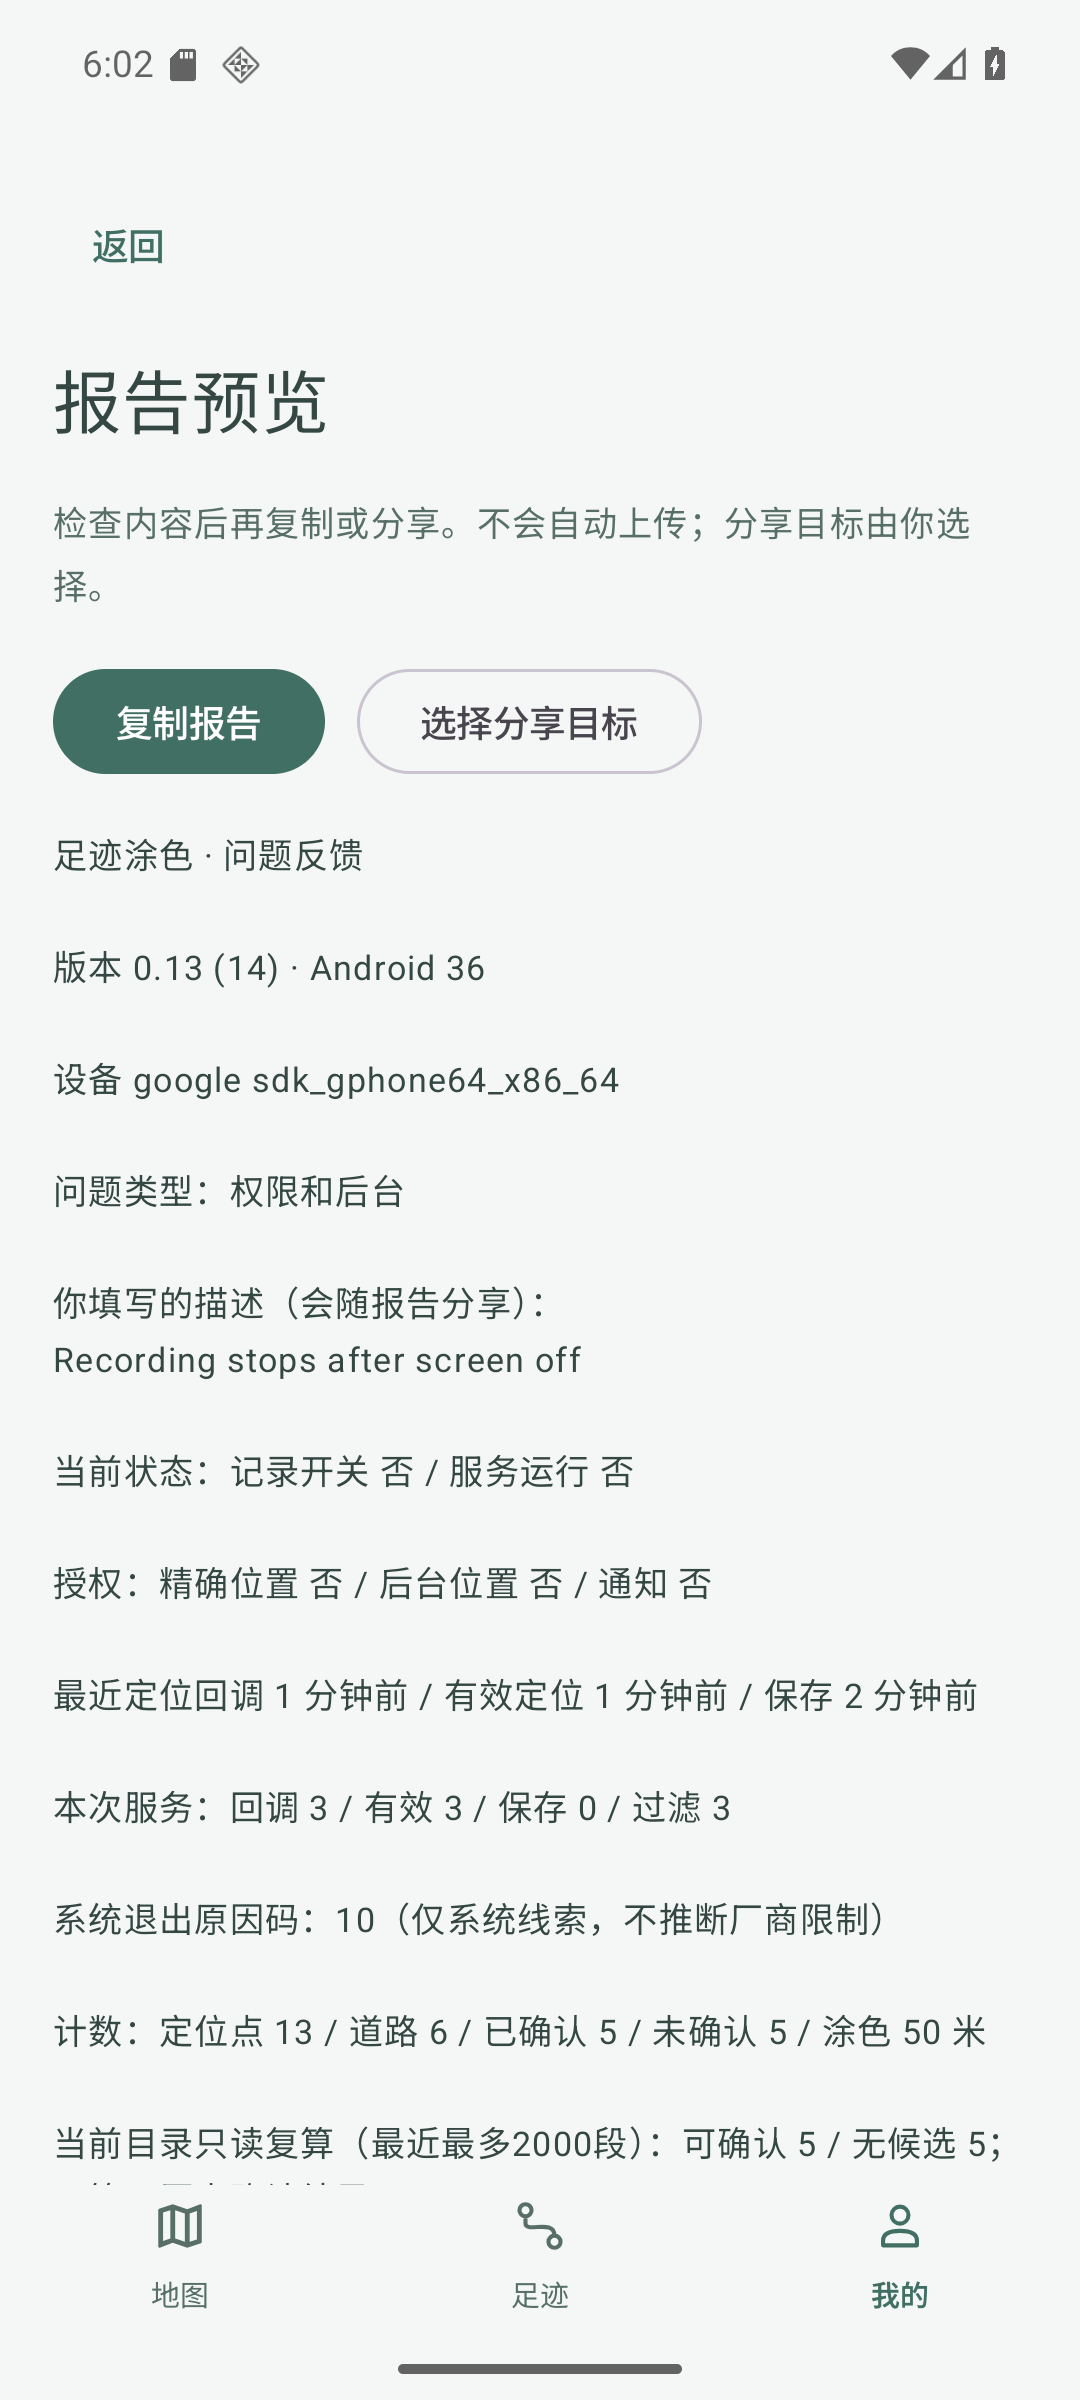
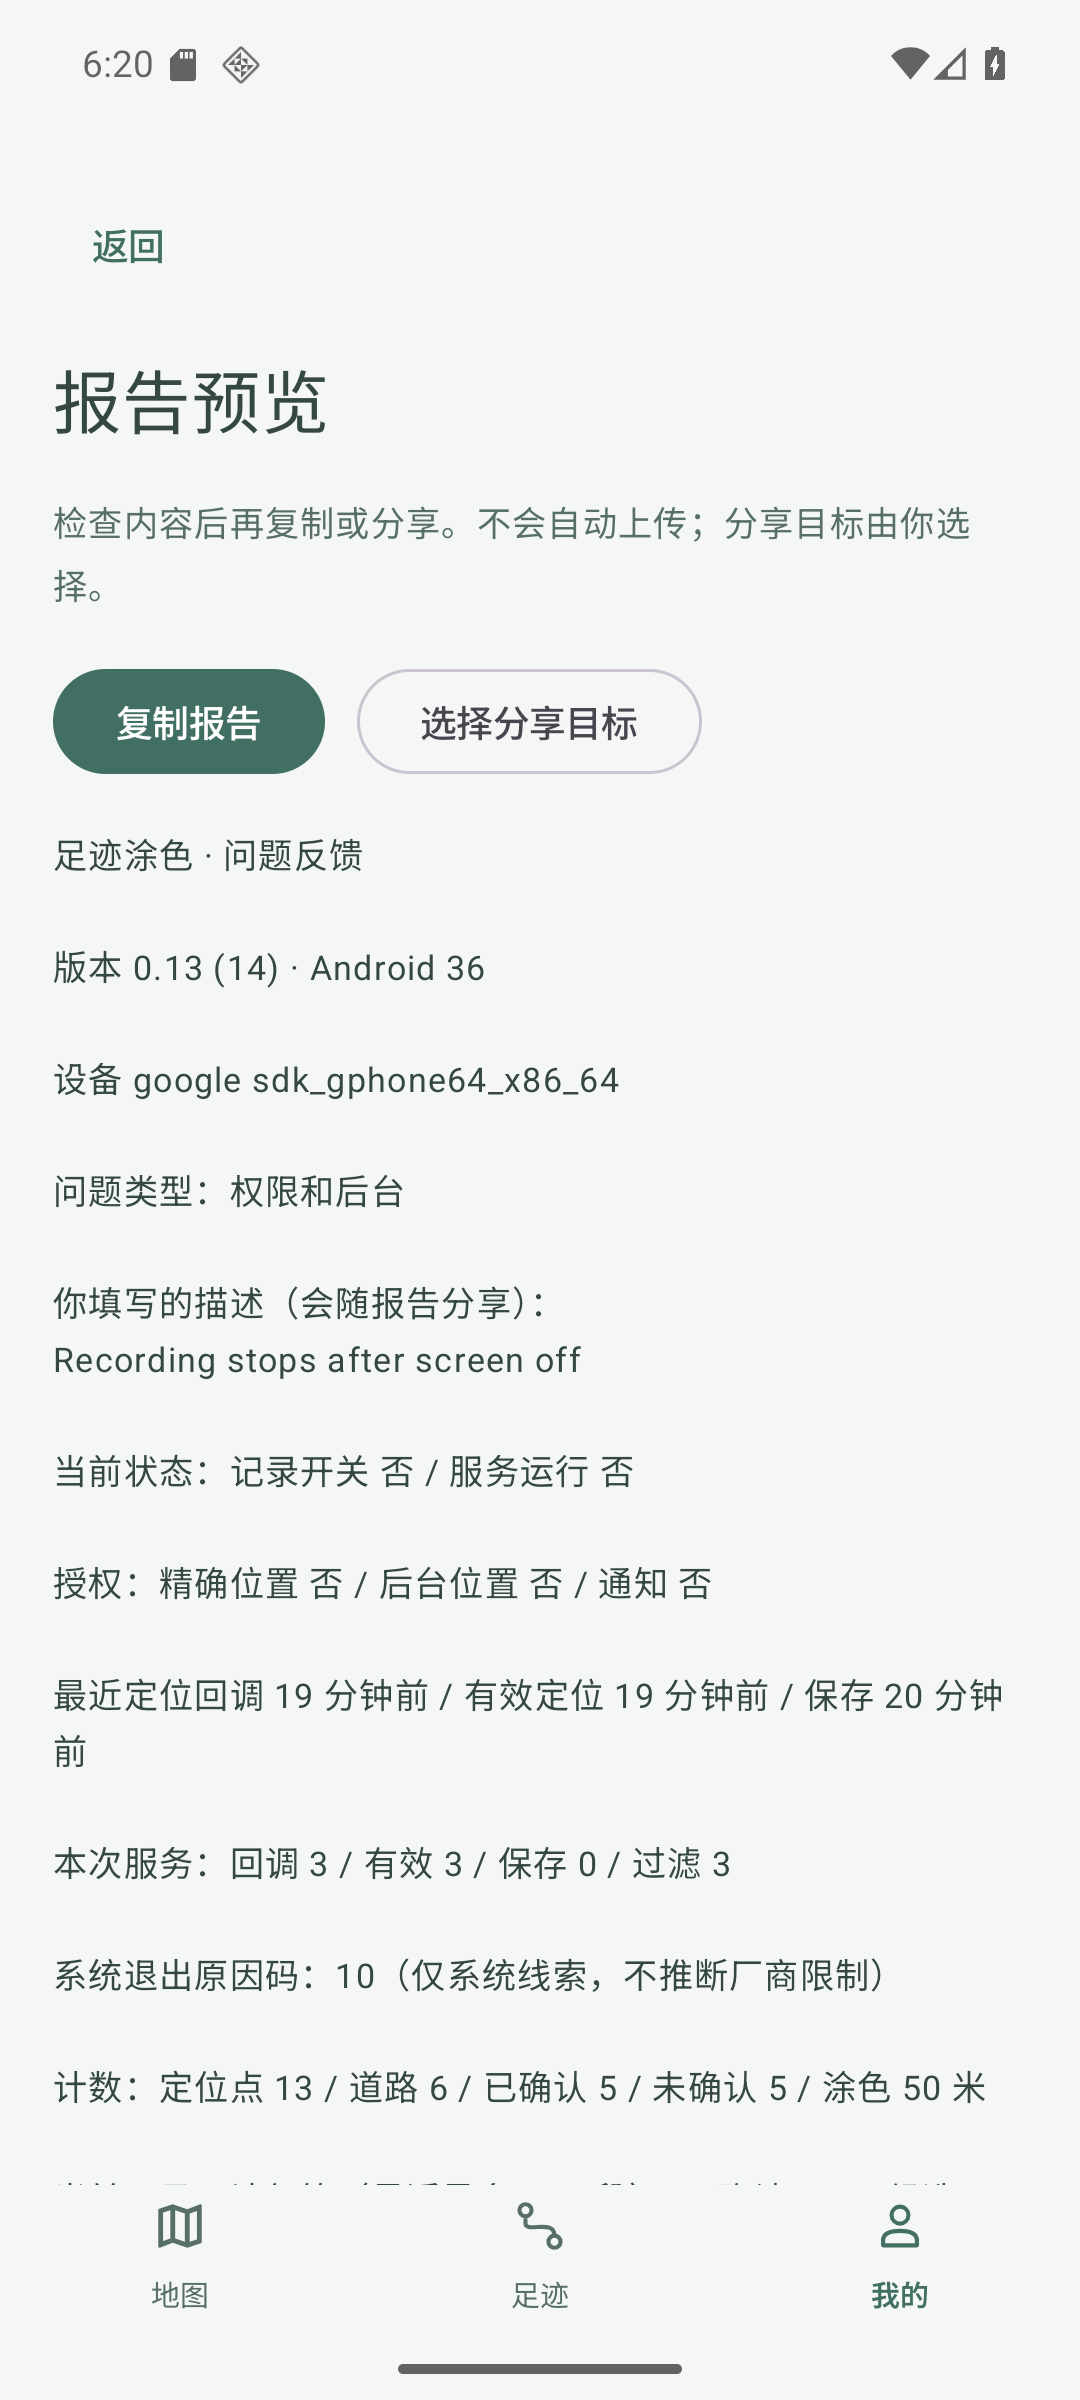
docs: update final v0.13 history fix and phased evidence

Changed region(s): [[0.0611, 0.7188, 0.9167, 0.9062], [0.275, 0.6875, 0.9167, 0.7188]]

diff --git a/docs/evidence/V013.md b/docs/evidence/V013.md
@@ -1,14 +1,14 @@
 # v0.13 整合验收 · 2026-10-10
 
-业务源码 `f6f4514a8b615568e19cb31e054ced443f592e23`，串行继承 PR #16 `c7bba2c`；独立工作区 `agent/codex/issue11-updates`，未从过期 main 重做。地图兼容 `82cc1c2`、反馈 `3857616`、更新 `6eb06ab`、取消反馈修正 `f6f4514`。最终同签名包为 cn.walkpaint / code14 / 0.13 / schema2。PR 未合并、CI未配置，手机未安装。
+最终业务源码 `349cd9d528a5693aa49ebda2a040da487fa89a3c`，串行继承 PR #16 `c7bba2c`；独立工作区 `agent/codex/issue11-updates`，未从过期 main 重做。地图兼容 `82cc1c2`、反馈 `3857616`、更新 `6eb06ab`、取消反馈修正 `f6f4514`。最终同签名包为 cn.walkpaint / code14 / 0.13 / schema2。PR 未合并、CI未配置，手机未安装。
 
 ## 范围与结果
 
 - #12 简化我的/按序授权继承；#10 本地反馈、预览/复制/系统分享选择器、独立清空/关闭；#11 当前中文说明和私有浏览器检查入口；#17 ARM地图库兼容守卫，x86使用已有离线地图。
-- 127 JVM + 7 Google设备守卫通过。只认 emulator-5556 / WalkPaint_Google_API36 / Google API36 x86_64；没有操作个人MuMu/手机。
+- 129 JVM + 7 Google设备守卫通过。只认 emulator-5556 / WalkPaint_Google_API36 / Google API36 x86_64；没有操作个人MuMu/手机。
 - 最终通用APK实际安装指纹一致，反馈填写/分类/报告预览/复制/系统选择器、清空后五表不变、关闭后重启保持设置通过。分享未选择联系人或发送。
 - v0.12→v0.13同签名覆盖安装，旧五表行保留；当前说明、浏览器实际目标与返回后仍未知最新版通过。不登录私有账号、不声称已取到新版/完成App内下载。
-- 通过应用系统文件选择器导入固定公开Oxford道路。虚拟硬件GPS实际记录6点，前台/退后台/短时锁屏产生连续写入，约50.04米道路确认；真实截图检测7508个青绿色道路像素。MapLibre实际SDK六色/相机/跟随保持探针PASS，原点保留。
+- 通过应用系统文件选择器导入固定公开Oxford道路。虚拟硬件GPS实际记录6点，前台/退后台/短时锁屏产生连续写入，约50.04米道路确认；真实截图检测7508个当前保存颜色的道路像素。MapLibre实际SDK六色/相机/跟随保持探针PASS，原点保留。
 - 白名单报告忽略任意坐标/URL/道路名编号/原始日志等字段，用户描述明确可见并限制1000字；事件只有固定原因+时间+次数，最多7天/500条/256KB，重复按5分钟合并。普通事件沿用原30秒写入线程与调度，关键线索即时保存，不增定位/监控服务或遥测。
 - 用户主动取消地图下载不记成故障；原录制服务、GPS/道路阈值、SQLite结构/轨迹/覆盖/备份格式未改。
 
@@ -24,8 +24,8 @@
 
 ## 产物与回退
 
[4 lines of base64/hex data omitted]
 
 中文说明唯一来源为 app/src/main/assets/release-notes.json，APK提取同字节文件作为分发说明。当前[原始验收摘要](v013/acceptance.json)和截图只含公开合成测试数据、非唯一型号与安全计数，不含私人轨迹或秘密。
 
@@ -39,3 +39,11 @@ Google通用：125160426字节，SHA256 `8fd4d1953ca3ade199ec0de4f0d089de4566bb8
 ![当前更新说明](v013/v0.13-updates.png)
 
 ![320dp反馈](v013/v0.13-feedback-320dp.png)
+
+## 草稿关闭后的边界复核与最终复验
+
+349cd9d修正系统迟到退出事件按旧时间清理新线索的缺陷：保留期限用观察时钟，历史按事件时间排序，过旧/未来事件不复活或推进时间。先建立稳定失败测试，再修复；最终129项全量JVM通过。未改录制/DB/道路门槛，草稿一直未开放。
+
+最终通用APK重新覆盖安装、指纹核对及反馈全链重跑通过，原数据保留。GPS再次在前台/退后台/短时锁屏写入，旧点保留，重复道路仍50.041345米不累计。像素脚本初次错假设青绿，但截图实际为此前保留的玫红；按真实持久化色#B56F77，在同APK上针对性续验7508彩路像素与六色SDK/相机/跟随PASS，测试偏好恢复已实读。没有将这次分段验收伪称一次无失败全轮。
+
+私有浏览器入口、隔离库和320dp为f6f4514首轮候选证据，后续只改ProblemHistory/RecordingDiagnostics，不更改这些UI/数据库路径；JSON的earlier_unchanged_ui_checks标明对应源与APK。最终反馈和GPS/像素证据对应349cd9d及当前安装指纹；两个签名包dex一致。原f6候选及完整失败证据本地保留，未作为开放下载。

diff --git a/HANDOFF.md b/HANDOFF.md
@@ -1,12 +1,14 @@
 # 当前交付 — v0.13 / #10 #11 #12 #17（2026-10-10）
 
-本节优先于下方历史。用户要求“你先都做完，再上传吧”：先完成软件整合/验收，再统一私有分发，不单发v0.12。唯一写手串行工作区 `D:\Workspaces\Codex\2026-10-10\new-chat\work\worktrees\WalkPaint\codex-issue11-updates` / `agent/codex/issue11-updates`，最终业务SHA `f6f4514a8b615568e19cb31e054ced443f592e23`，基线PR #16 c7bba2c；地图/反馈分支各只有自有新提交。原canonical/其他写手目录未修改。
+本节优先于下方历史。用户要求“你先都做完，再上传吧”：先完成软件整合/验收，再统一私有分发，不单发v0.12。唯一写手串行工作区 `D:\Workspaces\Codex\2026-10-10\new-chat\work\worktrees\WalkPaint\codex-issue11-updates` / `agent/codex/issue11-updates`，最终业务SHA `349cd9d528a5693aa49ebda2a040da487fa89a3c`，基线PR #16 c7bba2c；地图/反馈分支各只有自有新提交。原canonical/其他写手目录未修改。
 
-**状态：本轮软件范围完成、127 JVM/7 guard/Google实际UI与新GPS彩路通过，安装包本地就绪，私有上传尚未执行；PR未合并，用户手机未更新/未验收。** #11是明确浏览器降级MVP，不是自动检查下载。#6原vivoP0与#7/#8/#12真机仍开放。详见 [V013](docs/evidence/V013.md) 和内置中文 release-notes.json。
+**状态：本轮软件范围完成、129 JVM/7 guard/Google实际UI与新GPS彩路通过，安装包本地就绪，最终替换包待上传，既有草稿未开放；PR未合并，用户手机未更新/未验收。** #11是明确浏览器降级MVP，不是自动检查下载。#6原vivoP0与#7/#8/#12真机仍开放。详见 [V013](docs/evidence/V013.md) 和内置中文 release-notes.json。
 
[2 lines of base64/hex data omitted]
 
 仍不操作MuMu/手机，不改录制、DB、matcher门槛，不嵌认证、不建服务、不公开。上传完成必须读回服务器大小/digest并实际下载验SHA后再更新状态。旧v0.11下载保留，v0.12不另发布。登记agent-rules PR #29仍Active，无生命周期变化不写版本流水账。CI未配置。回退同签名/schema2/code>=14覆盖包，禁止卸载/清数据。
+
+迟到系统退出信息误删新线索已由349cd9d修正，129项通过。最终APK反馈/GPS/像素/SDK复验完成；浏览器/隔离库/320dp是f6f4514首轮候选上的未改UI证据，详细阶段与源SHA在V013/JSON中，不伪称全部整轮重跑。
 
 ---
 

diff --git a/CLAUDE.md b/CLAUDE.md
@@ -1,6 +1,6 @@
 # 项目规则
 
-- 当前串行完成 v0.13 的 #10 反馈/#11 浏览器更新MVP/#17 ARM兼容和#12继承整合；以HANDOFF首节和docs/evidence/V013.md为准。127 JVM/7守卫/Google真实反馈、覆盖升级、私有浏览器入口与50.04米真实GPS彩路通过；两包dex/内置说明一致。尚未上传、未合并、手机未安装；后续按本轮用户“做完再上传”授权统一私有分发，不单发v0.12。#11不冒充自动下载；vivo P0/长期后台与ARM高德本轮未验收。禁止改服务、DB、GPS/matcher阈值或测试私人MuMu。反馈仅固定白名单、本地有界留存、沿用诊断写入线程，不新增遥测/监控服务。回退原签名/schema2/code>=14。此节优先于以下历史状态。
+- 当前串行完成 v0.13 的 #10 反馈/#11 浏览器更新MVP/#17 ARM兼容和#12继承整合；以HANDOFF首节和docs/evidence/V013.md为准。129 JVM/7守卫/Google真实反馈、覆盖升级、私有浏览器入口与50.04米真实GPS彩路通过；两包dex/内置说明一致。最终替换包待上传、既有草稿未开放，未合并、手机未安装；后续按本轮用户“做完再上传”授权统一私有分发，不单发v0.12。#11不冒充自动下载；vivo P0/长期后台与ARM高德本轮未验收。禁止改服务、DB、GPS/matcher阈值或测试私人MuMu。反馈仅固定白名单、本地有界留存、沿用诊断写入线程，不新增遥测/监控服务。回退原签名/schema2/code>=14。此节优先于以下历史状态。
 
 - 当前串行推进 #12/v0.12，业务/候选包/测试与限制以 HANDOFF 首节及 docs/evidence/V012.md 为准。仅简化我的/权限引导/地图数据提示；禁止改记录服务、DB、GPS/matcher阈值。111 JVM、7 Google guard 和真实 Google UI/入库分段验收通过；Google 高德黑屏是已复现 v0.11 基线限制，底图/彩路像素未通过。APK 尚未发布，具体 v0.12 私有分发需用户确认；手机未安装，vivo P0 未解决，不关闭 #6/#7/#8/#12。不操作 MuMu/手机，后续只认 Google guard。回退同签名/schema2/code>=13。
 

diff --git a/README.md b/README.md
@@ -4,7 +4,7 @@ Android 道路探索涂色应用：授权一次，日常自动记录；走过的
 
 ## v0.13 整合候选（本机已验收，尚未上传）
 
-延续简洁我的/分步授权，新增本机问题反馈与预览分享、中文本版更新说明和私有发布页浏览器入口；不兼容高德的设备使用已有离线地图。127 JVM/7守卫、Google真实反馈全链/同签名覆盖旧行保留/实际公开道路50.04米彩路/后台及短时锁屏通过。[证据、失败修正、截图与回退](docs/evidence/V013.md)。code14/schema2/原签名，手机未安装、vivo户外/长期后台仍未验收，更新当前为浏览器降级路径。私有分发按本轮“做完再上传”要求统一执行，原v0.11下载保留；v0.12不另发布。
+延续简洁我的/分步授权，新增本机问题反馈与预览分享、中文本版更新说明和私有发布页浏览器入口；不兼容高德的设备使用已有离线地图。129 JVM/7守卫、Google真实反馈全链/同签名覆盖旧行保留/实际公开道路50.04米彩路/后台及短时锁屏通过。[证据、失败修正、截图与回退](docs/evidence/V013.md)。code14/schema2/原签名，手机未安装、vivo户外/长期后台仍未验收，更新当前为浏览器降级路径。私有分发按本轮“做完再上传”要求统一执行，原v0.11下载保留；v0.12不另发布。
 
 ## v0.12 历史本地候选（简化我的与授权）
 

diff --git a/CHANGELOG.md b/CHANGELOG.md
@@ -5,7 +5,7 @@
 - 新增本地有界反馈线索、类型和描述、实际报告预览/复制/系统分享；清空与关闭留存不影响旧足迹/道路/备份。
 - 新增当前版中文说明及私有浏览器更新入口，明确最新版未知；未加入认证凭据、自动下载或后台联网。
 - 修复ARM地图库在x86设备加载失败：守卫后使用已有MapLibre离线地图；用户取消下载不记成故障。
-- 继承v0.12简化设置与按序授权；127 JVM/7守卫、Google实际升级/反馈/私有浏览器/50.04米彩路和短时前后台/锁屏通过。
+- 继承v0.12简化设置与按序授权；129 JVM/7守卫、Google实际升级/反馈/私有浏览器/50.04米彩路和短时前后台/锁屏通过。
 - code14/schema2/原签名，服务/DB/阈值保持。vivo户外/长期后台与ARM高德本轮未测；详见docs/evidence/V013.md。
 
 ## 0.12 — 2026-10-10（本地候选，未分发/未合并）
